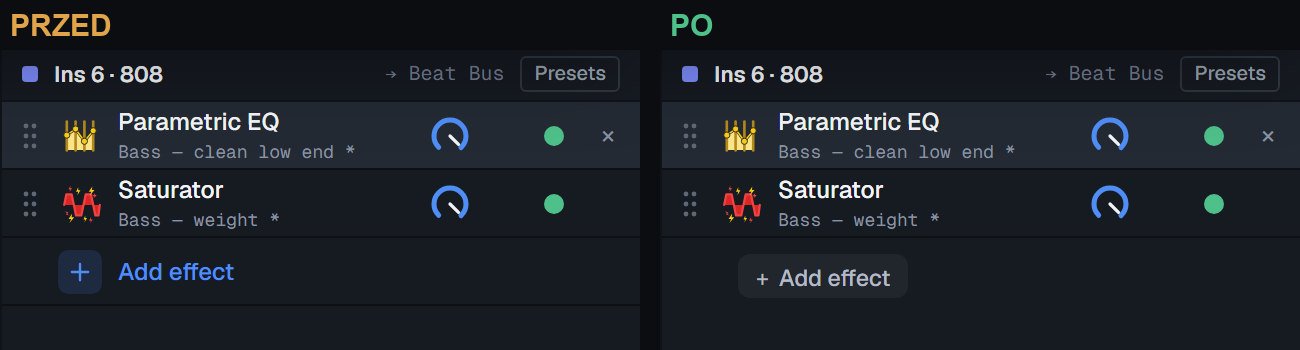
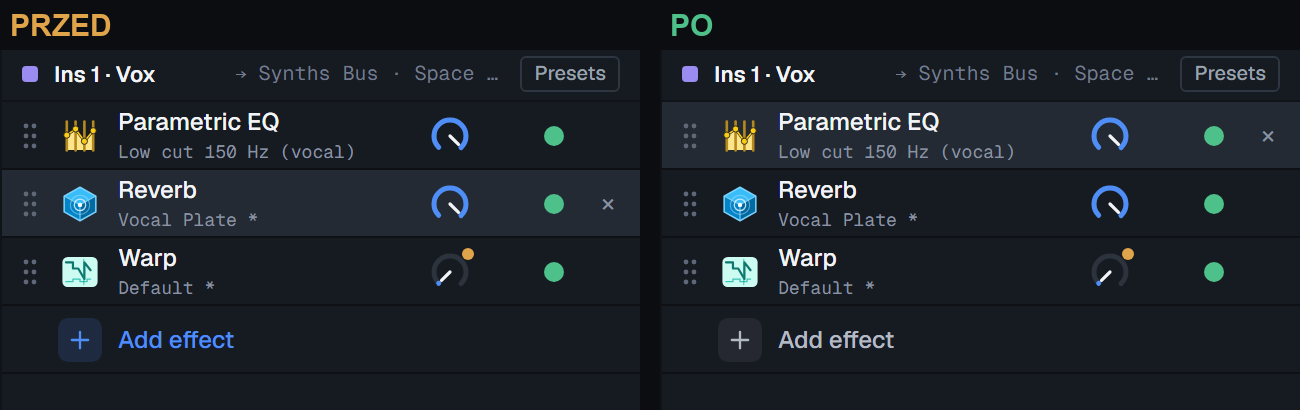
Add effect keeps its row with the plus tile, in a neutral colour

diff --git a/ui/src/views/Mixer.tsx b/ui/src/views/Mixer.tsx
@@ -20,7 +20,7 @@ import { tele } from '../state/telemetry';
 import { openMenu, openRename, say, setU, U, type MenuItem } from '../state/ui';
 import { dblCheck, dragCursor, fineMul, track } from '../ui/drag';
 import { addFrameTask } from '../ui/frameLoop';
-import { FXMETA, FxTile, Icon } from '../ui/icons';
+import { FXMETA, FxTile, Icon, ICONS } from '../ui/icons';
 import { guessIcon, InstIcon, trackIcon } from '../ui/instIcons';
 import { openFxPicker } from './FxPicker';
 import { openFxChains, saveFxChain } from './FxChains';
@@ -600,7 +600,11 @@ function FxChain() {
           </div>
           <div style={{ flex: 1, 'min-height': 0, overflow: 'auto' }}>
             <For each={ins().fx}>{(f, i) => <FxSlot f={f} n={i() + 1} insId={ins().id} />}</For>
-            <button class="linkbtn add addfx" title={tr('c.mix.addFxTip')} onPointerDown={e => { if (e.button === 0) openFxMenu(e.clientX, e.clientY, ins().id); }}>{tr('c.mix.addFxLabel')}</button>
+            <div class="slot addslot" title={tr('c.mix.addFxTip')} onPointerDown={e => { if (e.button === 0) openFxMenu(e.clientX, e.clientY, ins().id); }}>
+              <span class="n">{ins().fx.length + 1}</span>
+              <span class="tile addtile"><Icon d={ICONS.plus} /></span>
+              <span style={{ flex: 1, font: '500 12px var(--sans)', color: 'var(--fg2)' }}>{tr('c.mix.addFxLabel')}</span>
+            </div>
           </div>
         </div>
       )}

diff --git a/ui/src/styles.css b/ui/src/styles.css
@@ -1596,7 +1596,9 @@ button.chip { color: var(--fg); }
 .chanwin .chip.inspick select { max-width: 150px; text-overflow: ellipsis; }
 .chanwin .chip.smpcut select { min-width: 0; }
 /* one "add" look: the effect chain's Add effect and the mixer's new insert */
-.linkbtn.add.addfx { margin: 8px 0 8px 38px; }
+/* the effect chain's Add effect keeps its row; neutral, not the accent colour */
+.slot.addslot .addtile { background: color-mix(in srgb, var(--fg) 8%, transparent); color: var(--fg2); }
+.slot.addslot:hover .addtile, .slot.addslot:hover span { color: var(--fg-hi) !important; }
 .addIns { align-self: flex-start; width: 26px; height: 22px; margin: 6px 8px; border-radius: 6px; background: color-mix(in srgb, var(--fg) 6%, transparent); color: var(--fg2); font: 400 14px var(--sans); }
 .addIns:hover { background: color-mix(in srgb, var(--fg) 13%, transparent); color: var(--fg-hi); }
 /* ---- round 9 ---- */
